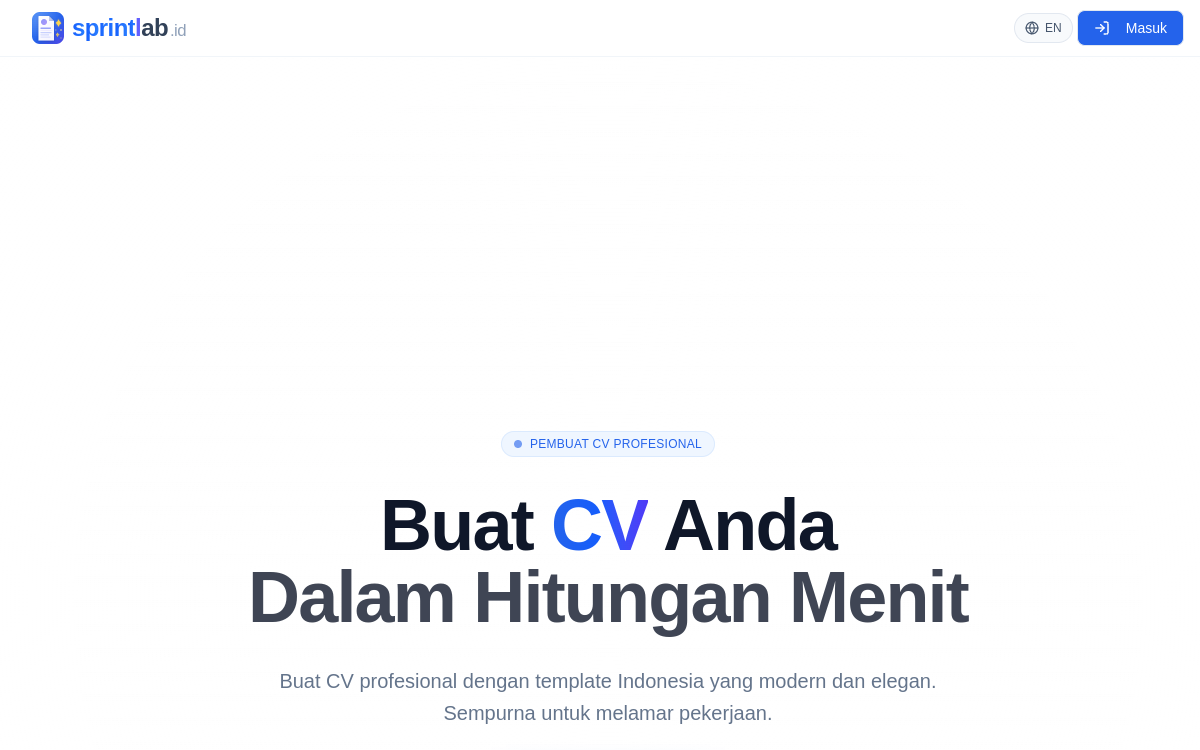
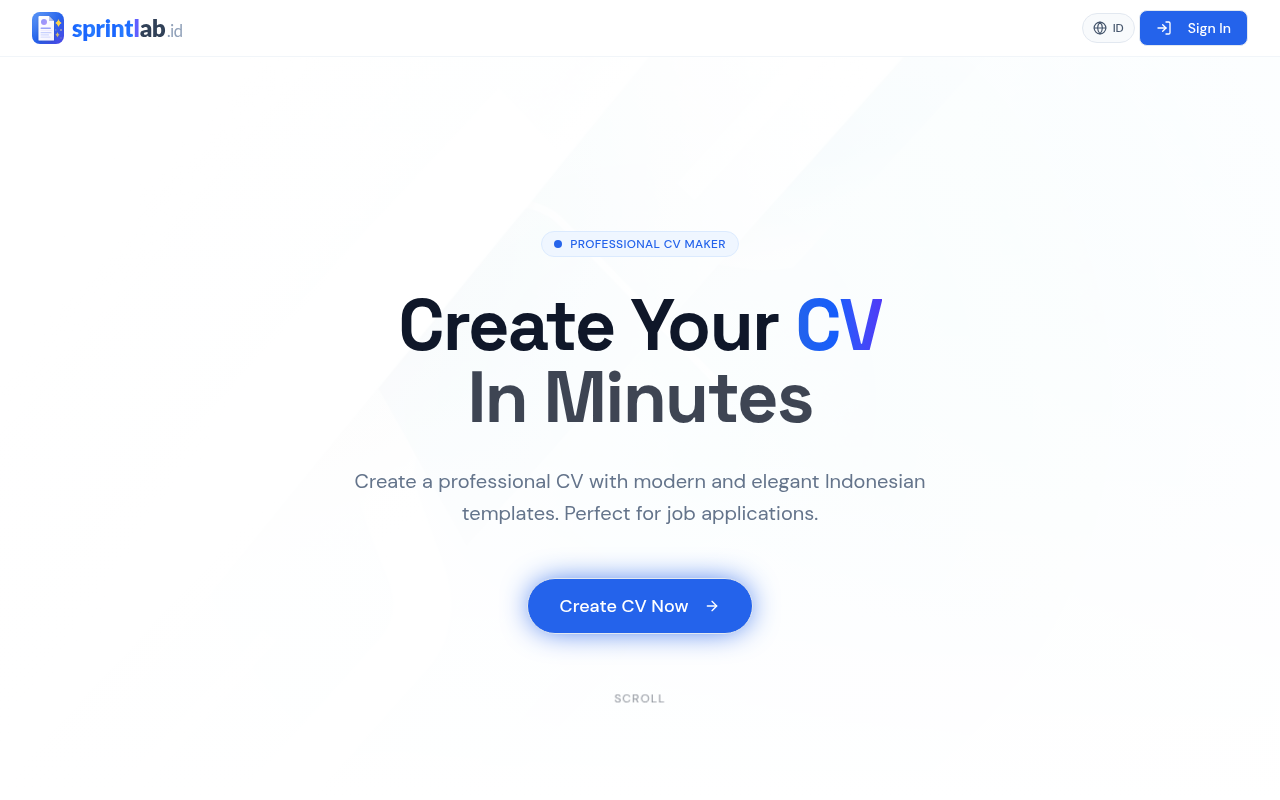
update projects

diff --git a/src/i18n.ts b/src/i18n.ts
@@ -202,6 +202,14 @@ export type Project = {
 
 export const projects: Project[] = [
   {
+    name: 'Geniverse.ai',
+    description: 'All-in-one AI productivity hub — unified access to top AI models with knowledge management, project Spaces, memory, and bank-level security.',
+    stack: ['Next.js', 'TypeScript', 'AI'],
+    metric: 'Production',
+    link: 'https://geniverse.ai',
+    image: '/projects/geniverse.png',
+  },
+  {
     name: 'Sprintlab.id',
     description: 'Professional CV builder with Indonesian-focused templates — modern, elegant layouts for job applications.',
     stack: ['Next.js', 'TypeScript', 'Tailwind'],
